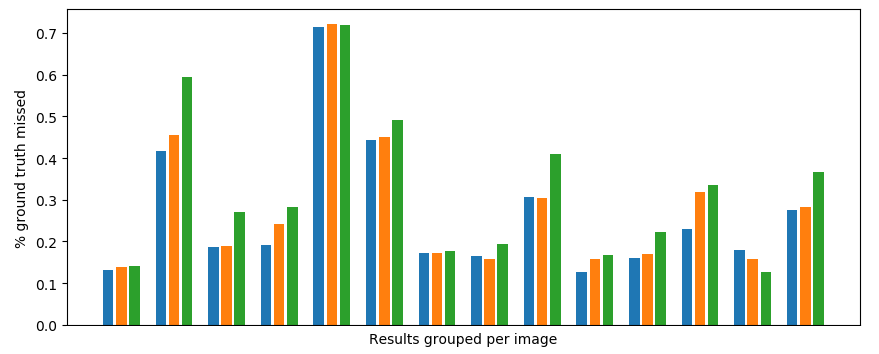
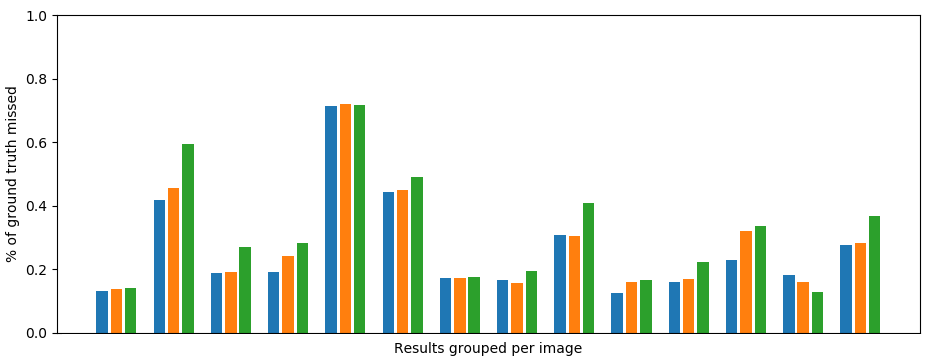
Only correctness of solution surface left.

Changed region(s): [[0.0307, 0.0311, 0.9829, 0.9944], [0.0, 0.1864, 0.0922, 0.839]]

diff --git a/report/main.tex b/report/main.tex
@@ -334,22 +334,30 @@ Inspecting the boxplots in Figure \ref{fig:euclud} (a) show that the lower teeth
 \end{figure}
 
 \subsection{Ground truth surface found}
-The bar chart in Figure \ref{fig:miss} (a)
+The bar chart in Figure \ref{fig:miss} (a) shows the percentage of ground truth we have missed in our solutions. The {\color{blue} blue} bars are for the runs with 10 maximum iterations, {\color{orange} orange} for 20 iterations and {\color{green} green} for 50. We have an average miss rate of about 22\%. Some results stand out because of their high miss rate. There are two reasons for this. The first is the presence of highly visible edges due to orthodontic materials. This confuses the algorithm and pushes the iterated approximations away, as shown in subfigure (b). The second is that some radiographs are off-center by more than half a tooth, causing our initialisation to start a whole tooth to the left or right. This is shown in subfigure (c). 
 
 \begin{figure}
 	\centering
-	\begin{subfigure}{0.4\linewidth}
+	\begin{subfigure}{\linewidth}
 		\centering
-		\includegraphics[width=\columnwidth]{results/chart_euclit}
+		\includegraphics[width=0.8\columnwidth]{results/chart_surf2}
+		\includegraphics[width=0.15\columnwidth]{results/chart_missbox}
 		\caption{}
 	\end{subfigure}
-	\begin{subfigure}{0.57\linewidth}
+
+	\begin{subfigure}{0.48\linewidth}
 		\centering
-		\includegraphics[width=0.45\columnwidth]{results/7i10}
-		\includegraphics[width=0.45\columnwidth]{results/7i50}
-		\caption{\texttt{maxiter} 10 and 50 for image 7}
+		\includegraphics[width=0.48\columnwidth]{results/2i50}
+		\includegraphics[width=0.48\columnwidth]{results/9i50}
+		\caption{Results for images 2 and 9}
 	\end{subfigure}
-	\caption{Euclidian distance to the ground truth per maximum number of iterations. Longer iteration has a negative effect on performance. } %TODO plot number of it vs number max it
+	\begin{subfigure}{0.48\linewidth}
+		\centering
+		\includegraphics[width=0.48\columnwidth]{results/5i50}
+		\includegraphics[width=0.48\columnwidth]{results/6i50}
+		\caption{Results for images 5 and 6}
+	\end{subfigure}
+	\caption{Ground truth surface missed per image.  } %TODO plot number of it vs number max it
 	\label{fig:miss}
 \end{figure}
 
